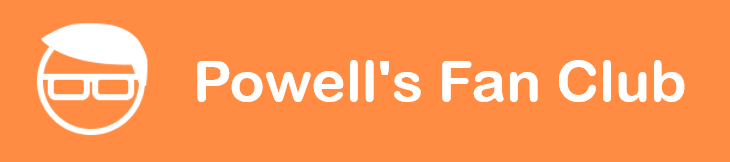
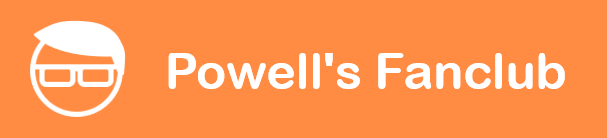
Fixed fanclub typo

diff --git a/admin/team.md b/admin/team.md
@@ -1,5 +1,5 @@
-# Powell's Fan Club
-Greeting here! We are cse110 fa21 team 31. Our team name is Powell's Fan Club. Checkout our details:
+# Powell's Fanclub
+Greeting here! We are cse110 fa21 team 31. Our team name is Powell's Fanclub. Checkout our details:
 
 ## Brand: 
 <!--

diff --git a/admin/branding/branding.md b/admin/branding/branding.md
@@ -1,4 +1,4 @@
-# Powell's Fan Club
+# Powell's Fanclub
 
 ## Logo
 
